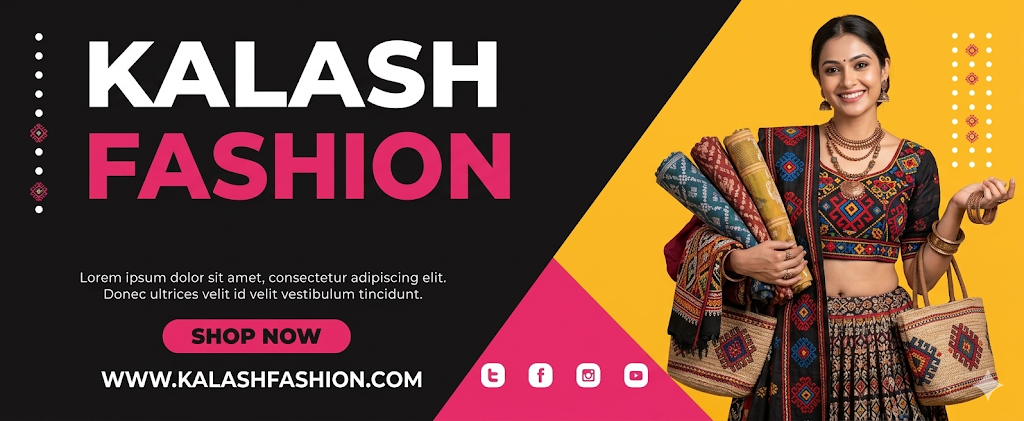
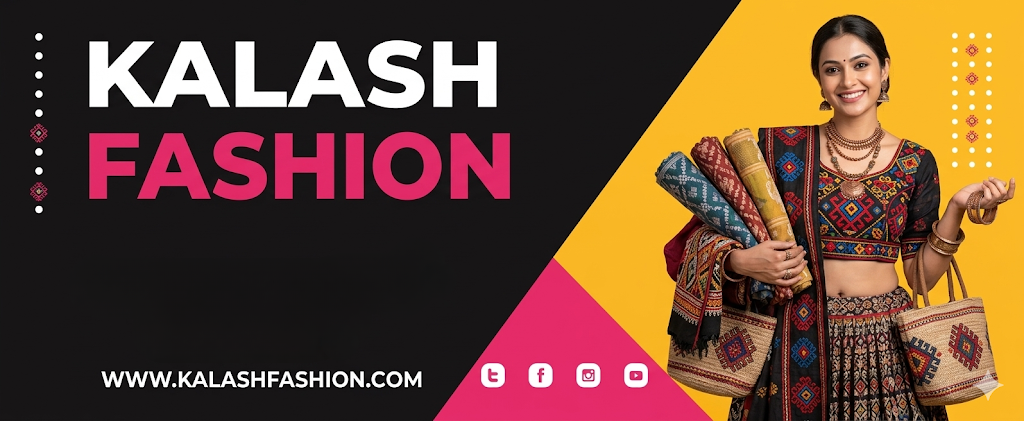
new initials

Changed region(s): [[0.1562, 0.7411, 0.3438, 0.8646], [0.0625, 0.6485, 0.4375, 0.7102]]

diff --git a/frontend/src/pages/WelcomePage.jsx b/frontend/src/pages/WelcomePage.jsx
@@ -1,0 +1,46 @@
+import React from 'react'
+import { Box, Button, Stack, Typography } from '@mui/material'
+import { Link } from 'react-router-dom'
+import { banner3 } from '../assets'
+
+export const WelcomePage = () => {
+  return (
+    <Box
+      sx={{
+        minHeight: '100vh',
+        display: 'flex',
+        alignItems: 'center',
+        justifyContent: 'center',
+        backgroundImage: `linear-gradient(rgba(0,0,0,0.55), rgba(0,0,0,0.55)), url(${banner3})`,
+        backgroundSize: 'cover',
+        backgroundPosition: 'center',
+        backgroundRepeat: 'no-repeat',
+        px: { xs: 3, md: 8 },
+      }}
+    >
+      <Stack maxWidth="800px" textAlign="center" rowGap={2}>
+        <Typography variant="overline" sx={{ color: 'rgba(255,255,255,0.8)', letterSpacing: '0.3rem' }}>
+          Kalash Fashion
+        </Typography>
+        <Typography variant="h2" sx={{ color: 'white', fontWeight: 700 }}>
+          Welcome to Kalash Fashion
+        </Typography>
+        <Typography variant="h6" sx={{ color: 'rgba(255,255,255,0.9)', fontWeight: 400 }}>
+          Celebrate tradition with modern elegance. Discover curated festive collections, premium fabrics,
+          and handcrafted designs made for every occasion.
+        </Typography>
+        <Typography sx={{ color: 'rgba(255,255,255,0.85)' }}>
+          10,000+ satisfied customers, 200+ exclusive designs, and nationwide delivery with fast turnaround.
+        </Typography>
+        <Stack direction="row" justifyContent="center" spacing={2} mt={2} flexWrap="wrap">
+          <Button variant="contained" component={Link} to="/login" sx={{ px: 4 }}>
+            Go to Login
+          </Button>
+          <Button variant="outlined" component={Link} to="/signup" sx={{ px: 4, color: 'white', borderColor: 'white' }}>
+            Create Account
+          </Button>
+        </Stack>
+      </Stack>
+    </Box>
+  )
+}

diff --git a/frontend/src/pages/ContactPage.jsx b/frontend/src/pages/ContactPage.jsx
@@ -1,0 +1,33 @@
+import React from 'react'
+import { Box, Paper, Stack, Typography } from '@mui/material'
+import { banner2 } from '../assets'
+
+export const ContactPage = () => {
+  return (
+    <Stack minHeight="calc(100vh - 4rem)" alignItems="center" justifyContent="center" px={2} py={4}>
+      <Paper elevation={1} sx={{ width: '100%', maxWidth: 1000, overflow: 'hidden' }}>
+        <Box
+          sx={{
+            height: { xs: 220, md: 320 },
+            backgroundImage: `url(${banner2})`,
+            backgroundSize: 'cover',
+            backgroundPosition: 'center',
+          }}
+        />
+        <Stack p={3} rowGap={2}>
+          <Typography variant="h4" fontWeight={600}>Contact Kalash Fashion</Typography>
+          <Typography color="text.secondary">
+            We are here to help with orders, sizing, and custom styling. Reach out anytime.
+          </Typography>
+
+          <Stack rowGap={1}>
+            <Typography><strong>Email:</strong> [email redacted]</Typography>
+            <Typography><strong>Phone:</strong> +91 72627 27774</Typography>
+            <Typography><strong>Address:</strong> Kalash Fashion, Surat, Gujarat, India</Typography>
+            <Typography><strong>Hours:</strong> Mon–Sat, 10:00 AM – 7:00 PM</Typography>
+          </Stack>
+        </Stack>
+      </Paper>
+    </Stack>
+  )
+}

diff --git a/frontend/src/features/admin/components/AdminProfile.jsx b/frontend/src/features/admin/components/AdminProfile.jsx
@@ -1,0 +1,21 @@
+import React from 'react'
+import { Avatar, Paper, Stack, Typography } from '@mui/material'
+import { useSelector } from 'react-redux'
+import { selectUserInfo } from '../../user/UserSlice'
+
+export const AdminProfile = () => {
+  const userInfo = useSelector(selectUserInfo)
+
+  return (
+    <Stack height="calc(100vh - 4rem)" alignItems="center" justifyContent="center" px={2}>
+      <Paper elevation={1} sx={{ width: '100%', maxWidth: 600, p: 3 }}>
+        <Stack alignItems="center" rowGap={1}>
+          <Avatar sx={{ width: 80, height: 80 }} />
+          <Typography variant="h5" fontWeight={600}>{userInfo?.name || 'Admin'}</Typography>
+          <Typography color="text.secondary">{userInfo?.email}</Typography>
+          <Typography color="text.secondary">Role: Admin</Typography>
+        </Stack>
+      </Paper>
+    </Stack>
+  )
+}

diff --git a/frontend/src/App.js b/frontend/src/App.js
@@ -8,7 +8,7 @@ import { Logout } from './features/auth/components/Logout';
 import { AdminProtected, Protected } from './features/auth/components/Protected';
 import { useAuthCheck } from "./hooks/useAuth/useAuthCheck";
 import { useFetchLoggedInUserDetails } from "./hooks/useAuth/useFetchLoggedInUserDetails";
-import { AddProductPage, AdminOrdersPage, CartPage, CheckoutPage, ForgotPasswordPage, HomePage, LoginPage, OrderSuccessPage, OtpVerificationPage, ProductDetailsPage, ProductUpdatePage, ResetPasswordPage, SignupPage, UserOrdersPage, UserProfilePage, WishlistPage } from './pages';
+import { AddProductPage, AdminOrdersPage, AdminProfilePage, CartPage, CheckoutPage, ContactPage, ForgotPasswordPage, HomePage, LoginPage, OrderSuccessPage, OtpVerificationPage, ProductDetailsPage, ProductUpdatePage, ResetPasswordPage, SignupPage, UserOrdersPage, UserProfilePage, WishlistPage, WelcomePage } from './pages';
 import { AdminDashboardPage } from './pages/AdminDashboardPage';
 import { NotFoundPage } from './pages/NotFoundPage';
 
@@ -26,6 +26,8 @@ function App() {
   const routes = createBrowserRouter(
     createRoutesFromElements(
       <>
+        <Route path='/welcome' element={<WelcomePage/>}/>
+        <Route path='/contact' element={<ContactPage/>}/>
         <Route path='/signup' element={<SignupPage/>}/>
         <Route path='/login' element={<LoginPage/>}/>
         <Route path='/verify-otp' element={<OtpVerificationPage/>}/>
@@ -39,9 +41,19 @@ function App() {
         <Route path='/admin/product-update/:id' element={<AdminProtected><ProductUpdatePage/></AdminProtected>}/>
         <Route path='/admin/add-product' element={<AdminProtected><AddProductPage/></AdminProtected>}/>
         <Route path='/admin/orders'  element={<AdminProtected><AdminOrdersPage/></AdminProtected>}/>
+        <Route path='/admin/profile'  element={<AdminProtected><AdminProfilePage/></AdminProtected>}/>
 
         {/* user routes */}
-        <Route path='/' element={loggedInUser?.isAdmin ? <Navigate to={'/admin/dashboard'} replace={true}/> : <Protected><HomePage/></Protected>}/>
+        <Route
+          path='/'
+          element={
+            loggedInUser?.isAdmin
+              ? <Navigate to={'/admin/dashboard'} replace={true}/>
+              : loggedInUser?.isVerified
+                ? <Protected><HomePage/></Protected>
+                : <WelcomePage/>
+          }
+        />
         <Route path='/cart' element={<Protected><CartPage/></Protected>}/>
         <Route path='/profile' element={<Protected><UserProfilePage/></Protected>}/>
         <Route path='/checkout' element={<Protected><CheckoutPage/></Protected>}/>

diff --git a/frontend/src/pages/index.js b/frontend/src/pages/index.js
@@ -1,7 +1,9 @@
 import { AddProductPage } from "./AddProductPage";
 import { AdminOrdersPage } from "./AdminOrdersPage";
+import { AdminProfilePage } from "./AdminProfilePage";
 import { CartPage } from "./CartPage";
 import { CheckoutPage } from "./CheckoutPage";
+import { ContactPage } from "./ContactPage";
 import { ForgotPasswordPage } from "./ForgotPasswordPage";
 import { HomePage } from "./HomePage";
 import { LoginPage } from "./LoginPage";
@@ -14,6 +16,7 @@ import { SignupPage } from "./SignupPage";
 import { UserOrdersPage } from "./UserOrdersPage";
 import { UserProfilePage } from "./UserProfilePage";
 import { WishlistPage } from "./WishlistPage";
+import { WelcomePage } from "./WelcomePage";
 
 export {
     SignupPage,
@@ -30,6 +33,9 @@ export {
     ProductUpdatePage,
     AddProductPage,
     AdminOrdersPage,
+    AdminProfilePage,
     WishlistPage,
-    OtpVerificationPage
+    OtpVerificationPage,
+    WelcomePage,
+    ContactPage
 }

diff --git a/frontend/src/pages/AdminProfilePage.jsx b/frontend/src/pages/AdminProfilePage.jsx
@@ -1,0 +1,6 @@
+import React from 'react'
+import { AdminProfile } from '../features/admin/components/AdminProfile'
+
+export const AdminProfilePage = () => {
+  return <AdminProfile />
+}

diff --git a/frontend/src/features/auth/components/Signup.jsx b/frontend/src/features/auth/components/Signup.jsx
@@ -74,7 +74,7 @@ export const Signup = () => {
 
               <Stack flexDirection={'row'} justifyContent={'center'} alignItems={'center'}>
                   <Stack rowGap={'.4rem'}>
-                    <Typography variant='h2' sx={{wordBreak:"break-word"}} fontWeight={600}>Mern Shop</Typography>
+                    <Typography variant='h2' sx={{wordBreak:"break-word"}} fontWeight={600}>Kalash Fashion</Typography>
                     <Typography alignSelf={'flex-end'} color={'GrayText'} variant='body2'>- Shop Anything</Typography>
                   </Stack>
 

diff --git a/frontend/src/features/navigation/components/Navbar.jsx b/frontend/src/features/navigation/components/Navbar.jsx
@@ -51,6 +51,7 @@ export const Navbar=({isProductList=false})=> {
     {name:"Home",to:"/"},
     {name:'Profile',to:loggedInUser?.isAdmin?"/admin/profile":"/profile"},
     {name:loggedInUser?.isAdmin?'Orders':'My orders',to:loggedInUser?.isAdmin?"/admin/orders":"/orders"},
+    {name:'Contact',to:"/contact"},
     {name:'Logout',to:"/logout"},
   ];
 

diff --git a/Solution.java b/Solution.java
@@ -1,0 +1,10 @@
+public class Solution {
+    public static void main (String []args) {
+
+        String s = "A man, a plan, a canal: Panama";
+        String res = s.toUpperCase();
+
+        System.out.println(res);
+
+    }
+}